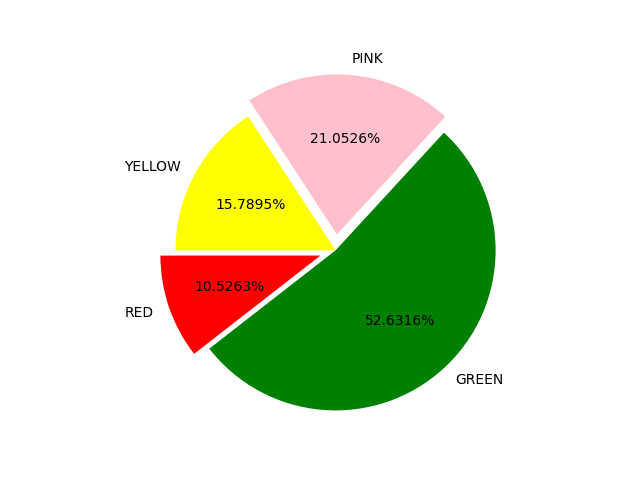
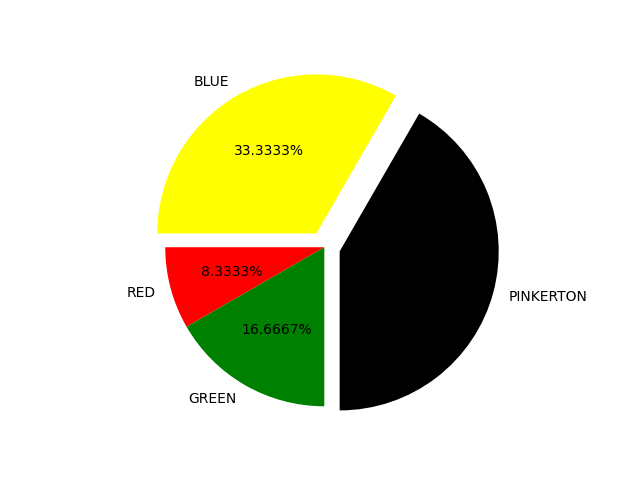
this be POPPIN

Changed region(s): [[0.1875, 0.0938, 0.9375, 0.875], [0.7188, 0.7812, 0.7812, 0.8125], [0.4375, 0.8125, 0.4688, 0.8438]]

diff --git a/main.py b/main.py
@@ -1,9 +1,9 @@
 import matplotlib.pyplot as plot
 # set up your lists
-numlist = [2, 10, 4, 3]
-namelist = ['RED', 'GREEN', 'PINK', 'YELLOW']
-colorlist = ['red', 'green', 'pink', 'yellow' ]
-explodelist = [0.1, 0.0, 0.1, 0.0]
+numlist = [2, 4, 10, 8]
+namelist = ['RED', 'GREEN', 'PINKERTON', 'BLUE']
+colorlist = ['red', 'green', 'black', 'yellow' ]
+explodelist = [0.0, 0.0, 0.1, 0.1]
 # make the pie chart
 plot.pie(numlist, labels=namelist, autopct='%.4f%%', colors=colorlist,
     	explode = explodelist, startangle = 180)
